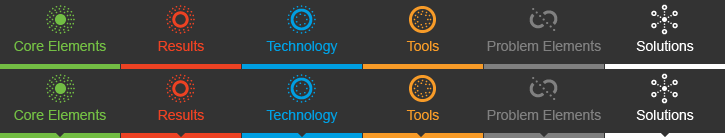
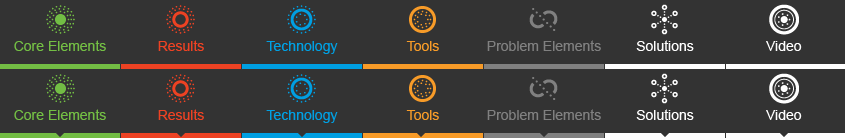
build video nav video box graphics top nav hovers

diff --git a/public/stylesheets/application.css b/public/stylesheets/application.css
@@ -17,8 +17,12 @@ html, body {
 	min-height: 768px;
 	overflow: hidden;
 }
+.hidden {
+  display: none;
+}
 a {
   color: #fff;
+  text-decoration: none;
 }
 a:hover {
   color: #0088cc;
@@ -33,6 +37,9 @@ a:hover {
 }
 .black {
   color: #000;
+}
+.green {
+  color: #5bab46;
 }
 
 /***Firefox dotted line tweak***/
@@ -88,6 +95,18 @@ label.error {
   margin-top: 20px;
   margin-right: 30px;
 }
+#top_nav a:hover {
+  color: #fff;
+  text-decoration: none;
+}
+#top_nav a span {
+  color: #000;
+}
+#top_nav a:hover span, #top_nav a:hover span.active {
+  display: inline;
+  color: #5bab46;
+}
+
 #logo {
   position: absolute;
   width: 200px;
@@ -108,7 +127,7 @@ label.error {
   width: 100%;
 }
 #icon_nav ul {
-  width: 726px;
+  width: 847px;
 }
 #icon_nav ul li {
   width: 120px;
@@ -156,6 +175,12 @@ label.error {
 }
 #icon_nav ul li#nav6 a:hover {
   background: transparent url(../images/icon_nav.png) -605px -69px no-repeat;
+}
+#icon_nav ul li#nav7 a {
+  background: transparent url(../images/icon_nav.png) -726px 0px no-repeat;
+}
+#icon_nav ul li#nav7 a:hover {
+  background: transparent url(../images/icon_nav.png) -726px -69px no-repeat;
 }
 #sub_nav {
   background: transparent url(../images/green_sub_nav_bg.png) 0px 0px repeat-x;
@@ -272,6 +297,13 @@ label.error {
 }
 #elements .element.solid_yellow {
   background: #f7b219;
+}
+#elements .element.solid_black {
+  background: #000;
+  color: #fff;
+}
+#elements .element.solid_black p {
+  color: #fff;
 }
 #elements .element.grey {
   background: #000;
